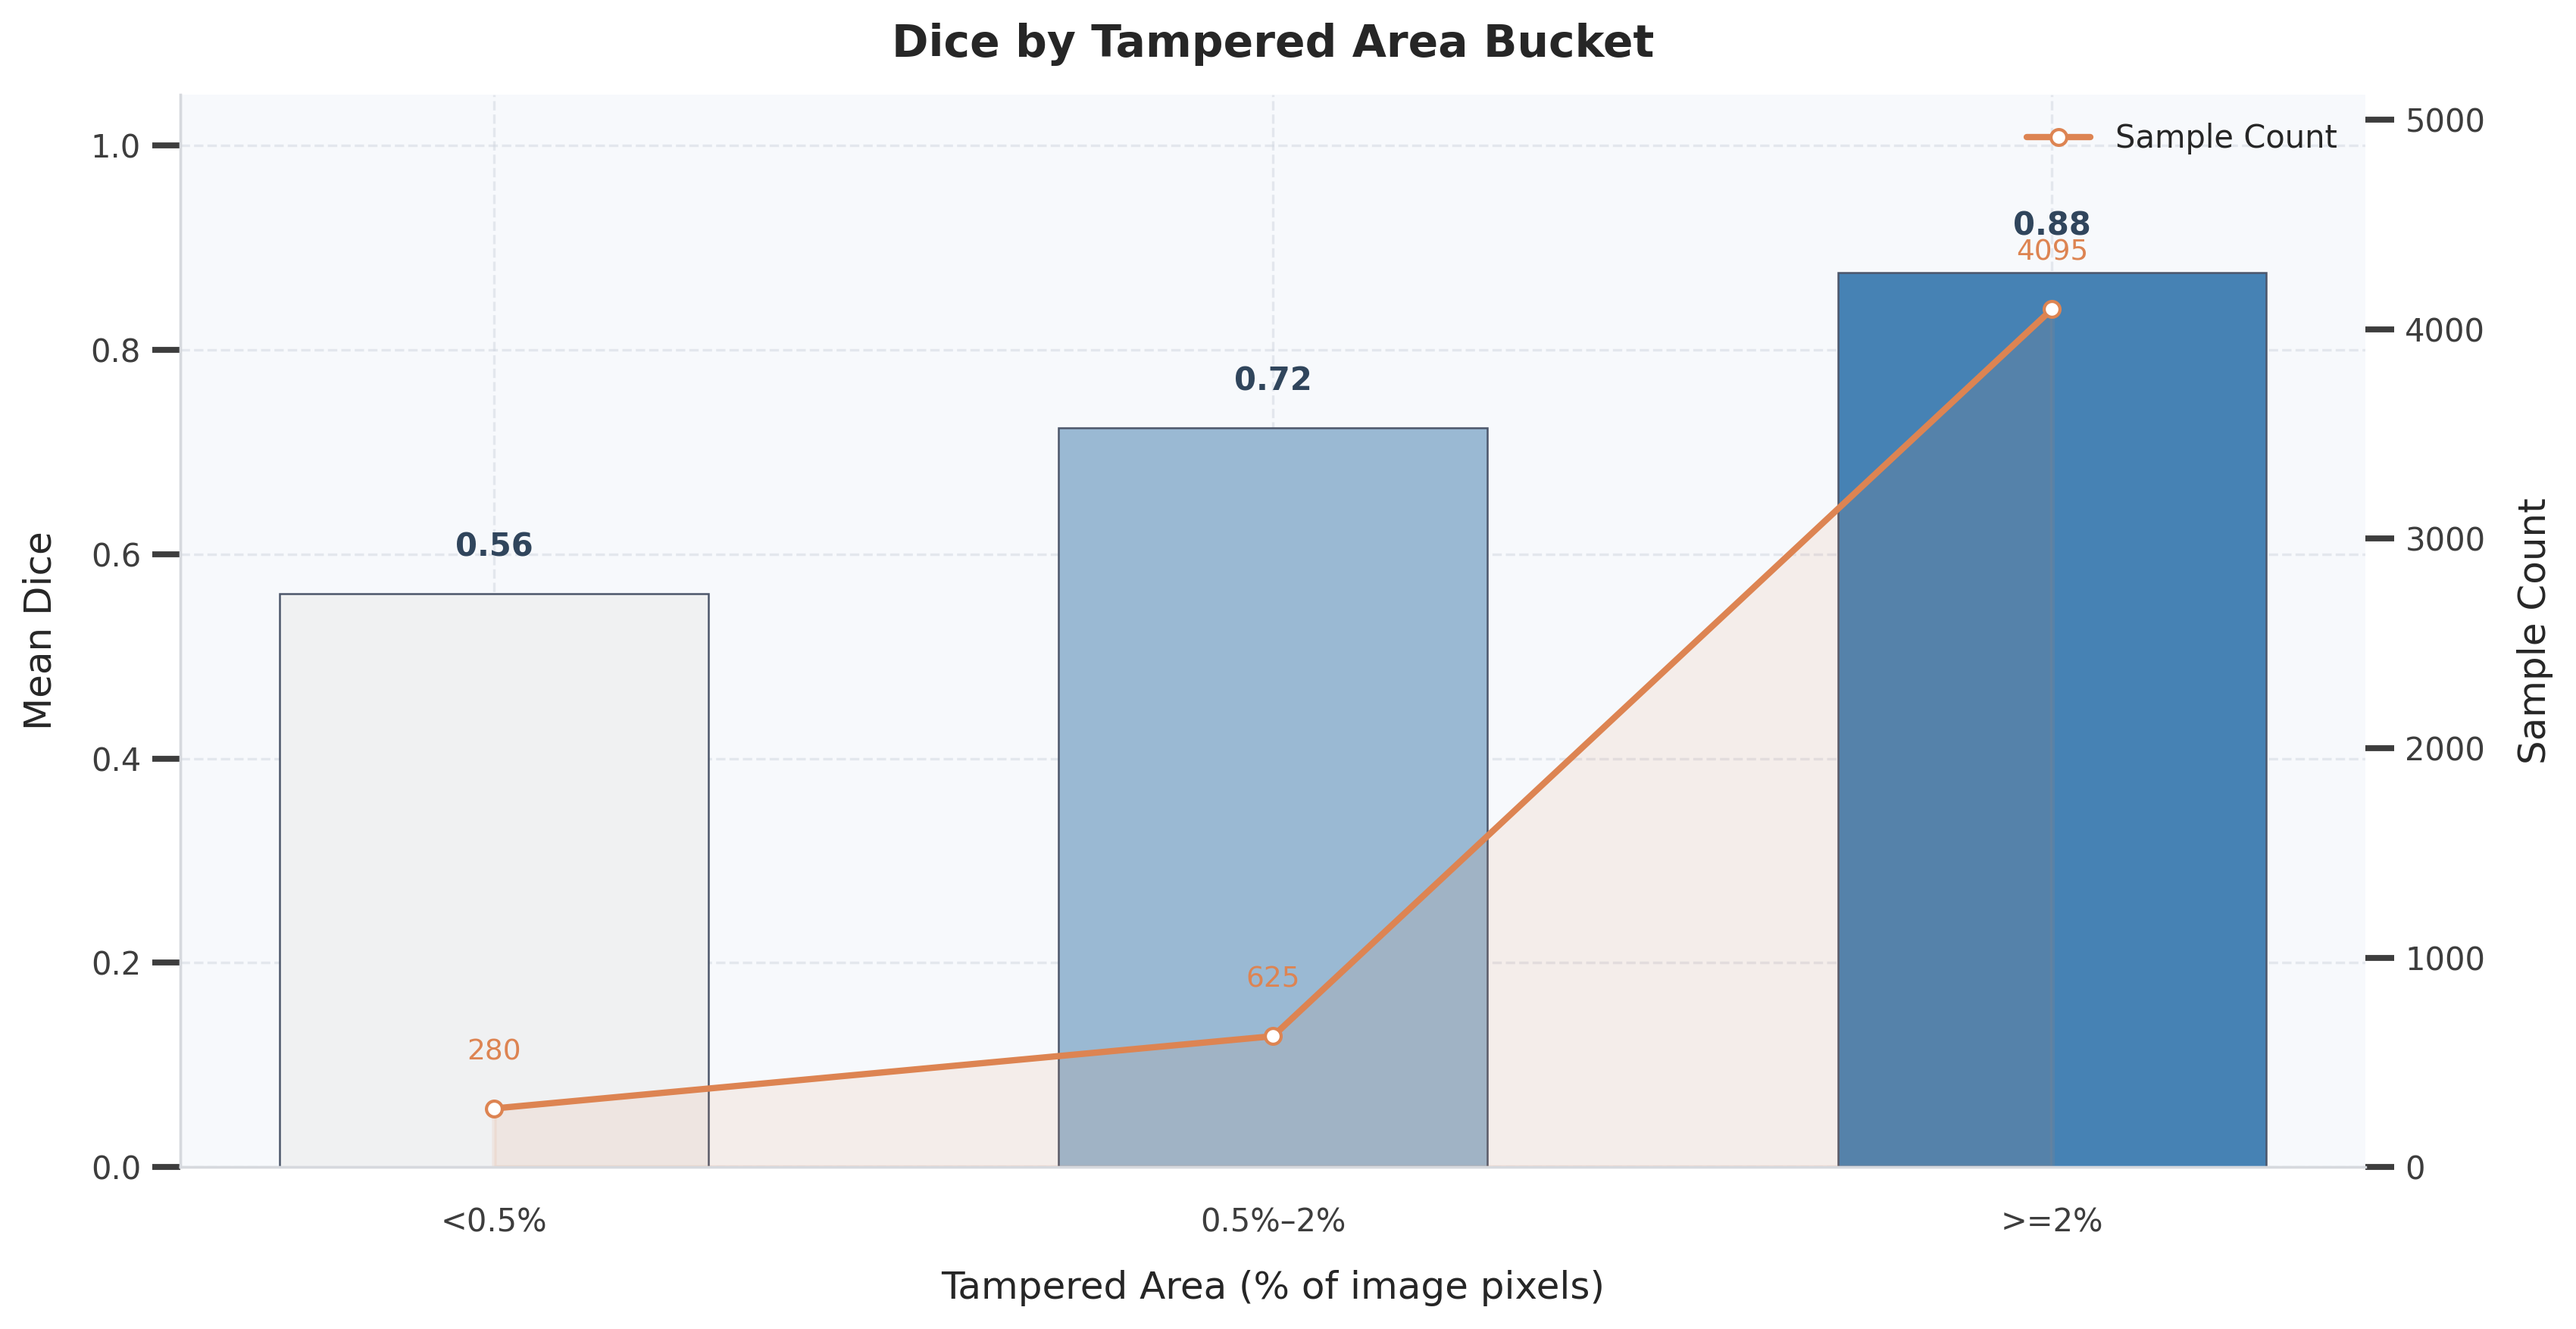
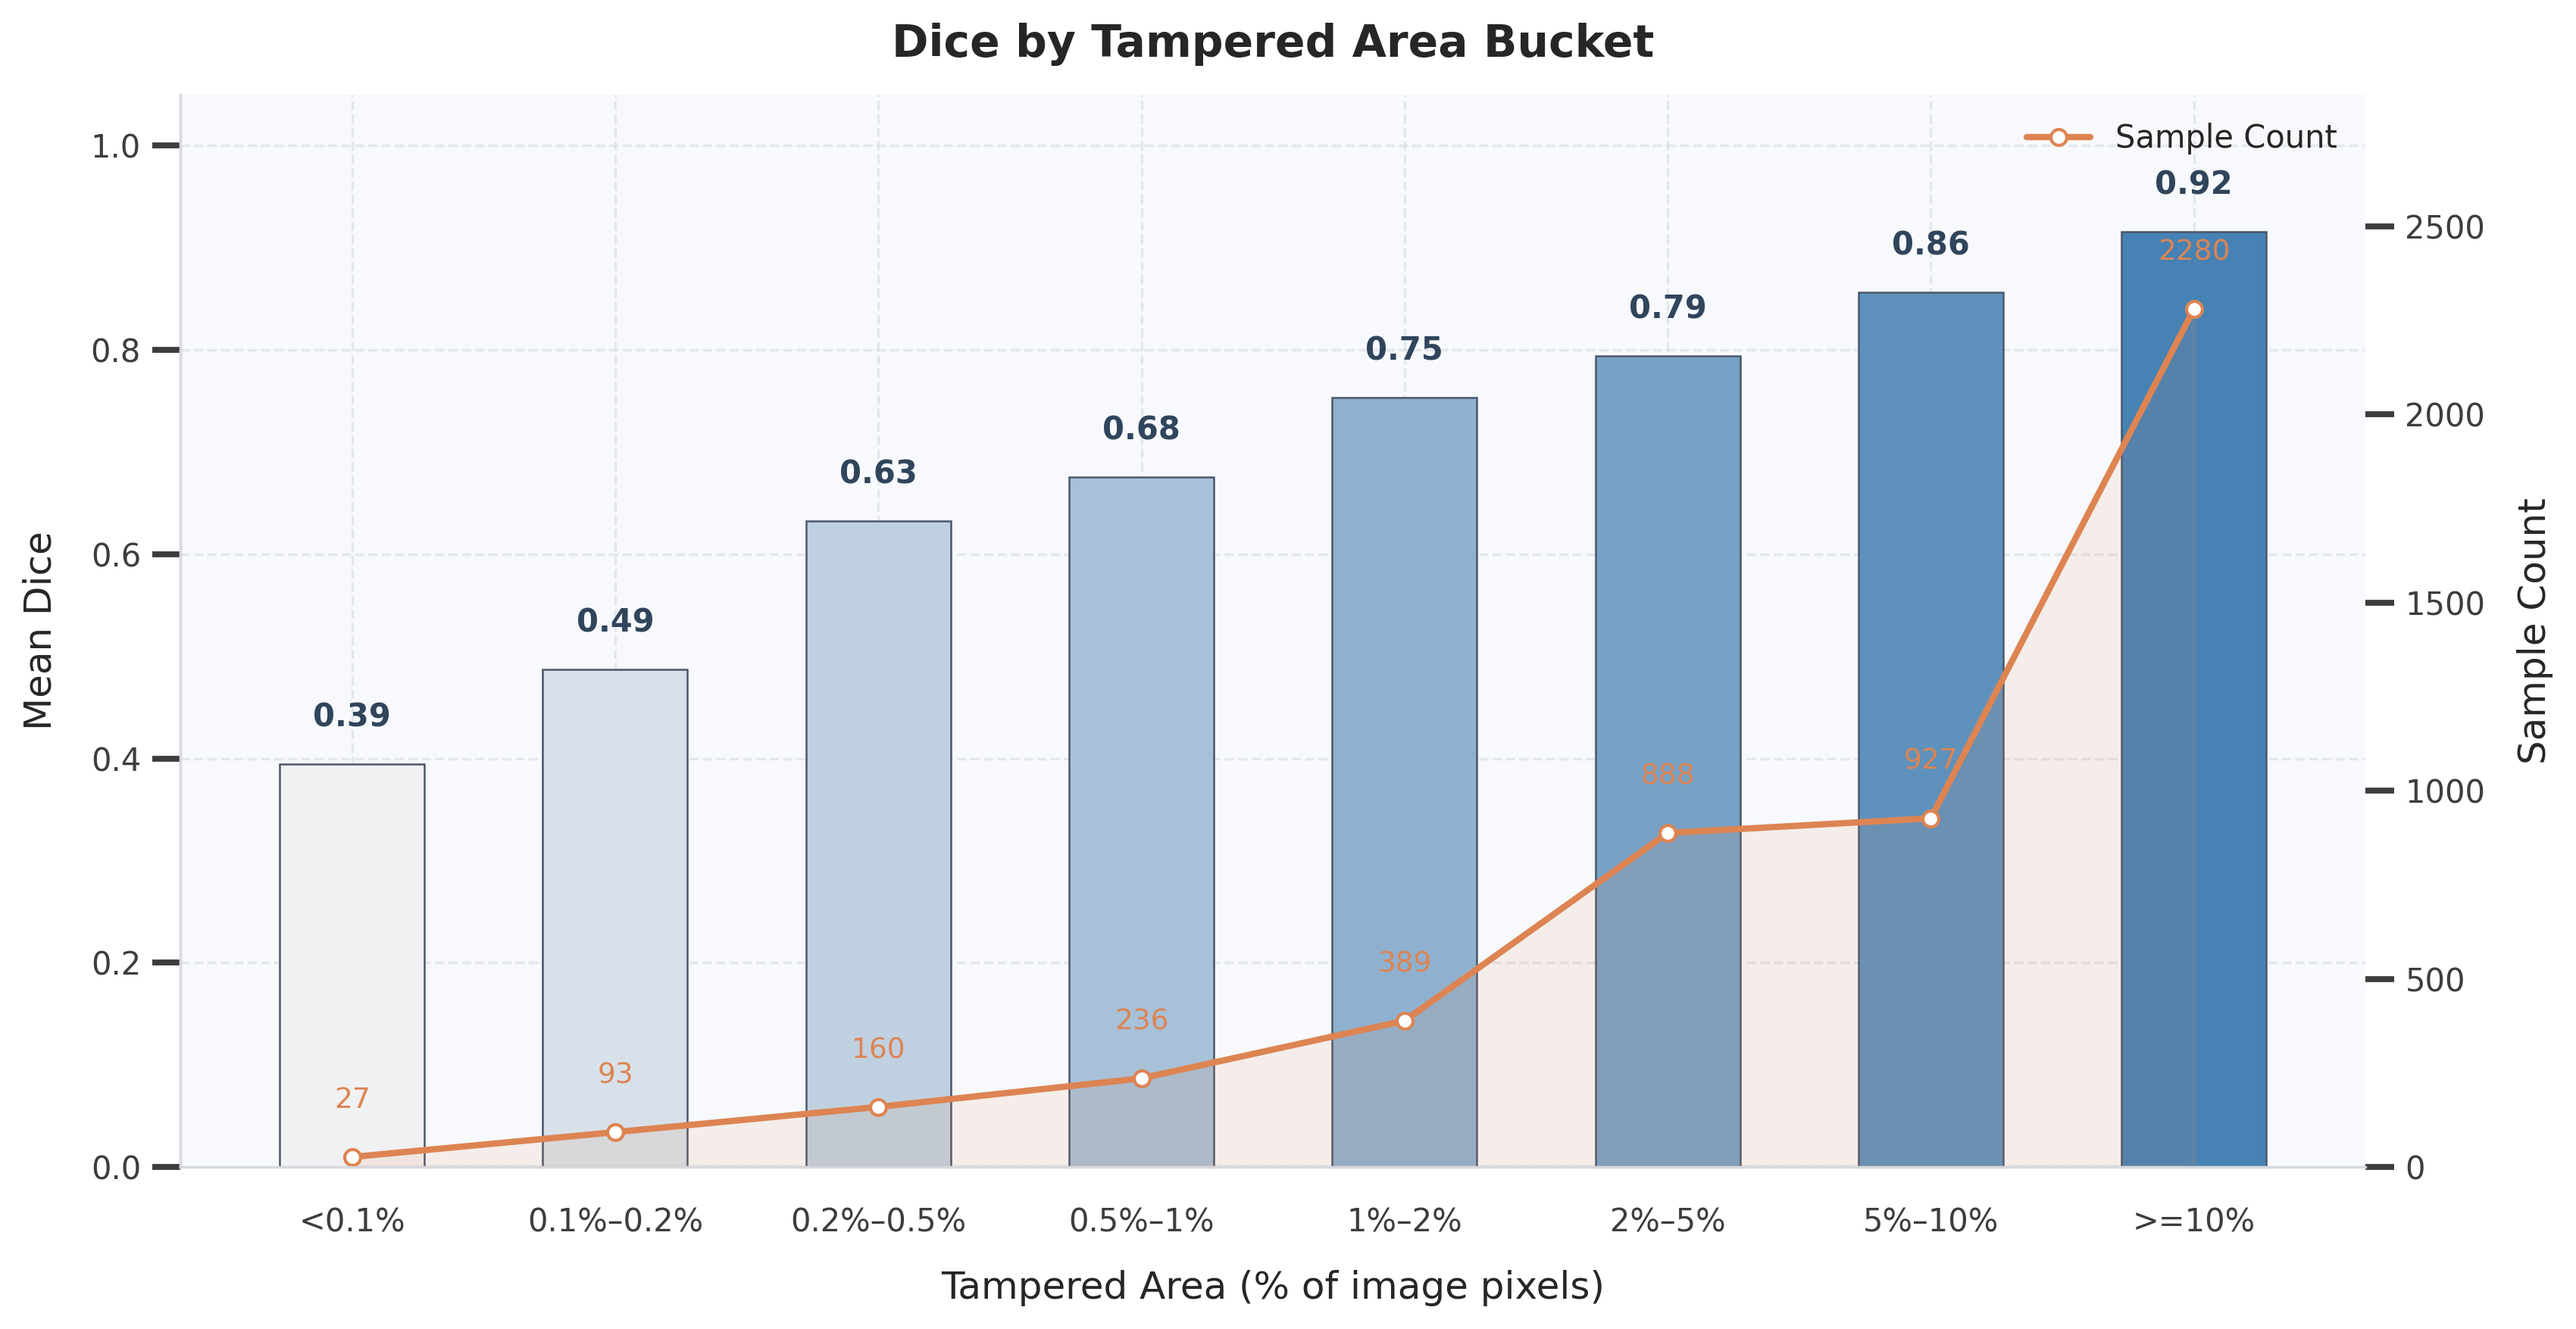
increased bucket size

diff --git a/src/deepfake/segmentation/evaluate.py b/src/deepfake/segmentation/evaluate.py
@@ -150,6 +150,7 @@ class Evaluator:
         self.threshold_stats = {threshold: {"tp": 0.0, "fp": 0.0, "fn": 0.0} for threshold in self.thresholds}
         best_examples: List[Tuple[float, Tuple[np.ndarray, np.ndarray, np.ndarray]]] = []
         worst_examples: List[Tuple[float, Tuple[np.ndarray, np.ndarray, np.ndarray]]] = []
+        zero_area_masks = 0
 
         mean_tensor = torch.tensor(self.cfg.model.normalize_mean, device=self.device).view(3, 1, 1)
         std_tensor = torch.tensor(self.cfg.model.normalize_std, device=self.device).view(3, 1, 1)
@@ -181,6 +182,8 @@ class Evaluator:
                     intersection = (pred_mask * true_mask).sum().item()
                     pred_sum = pred_mask.sum().item()
                     true_sum = true_mask.sum().item()
+                    if true_sum <= EPS:
+                        zero_area_masks += 1
                     dice_val = (2 * intersection + EPS) / (pred_sum + true_sum + EPS)
                     union = pred_sum + true_sum - intersection
                     iou_val = (intersection + EPS) / (union + EPS)
@@ -206,6 +209,11 @@ class Evaluator:
 
         self.bucket_summary = self._summarise_buckets(self.bucket_summary)
         self.threshold_summary = self._summarise_thresholds(self.threshold_stats)
+        if zero_area_masks:
+            self.logger.warning(
+                f"Encountered {zero_area_masks} evaluation samples with zero-area tamper masks; "
+                "consider inspecting dataset filters."
+            )
 
         best_outputs = [data for _, data in best_examples]
         worst_outputs = [data for _, data in worst_examples]

diff --git a/src/deepfake/data/dataset_manager.py b/src/deepfake/data/dataset_manager.py
@@ -1,4 +1,5 @@
 from typing import Optional, Literal, Callable
+import numpy as np
 from datasets import Dataset, load_dataset, DownloadMode
 
 TRAIN = "train"
@@ -332,7 +333,19 @@ class DatasetFilters:
     @staticmethod
     def tampered_with_masks(example):
         """Filter for segmentation: only tampered images with valid masks."""
-        return example["label"] == 2 and example.get("mask") is not None
+        if example.get("label") != 2:
+            return False
+        mask = example.get("mask")
+        if mask is None:
+            return False
+        try:
+            mask_array = np.asarray(mask)
+            if mask_array.size == 0:
+                return False
+            mask_sum = mask_array.astype(np.float32).sum()
+        except Exception:
+            return False
+        return mask_sum > 0
     
     @staticmethod
     def classification_only(example):
